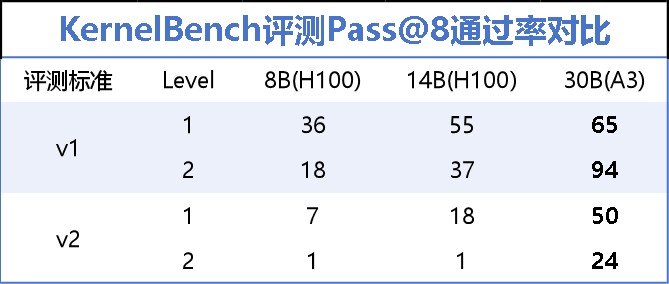
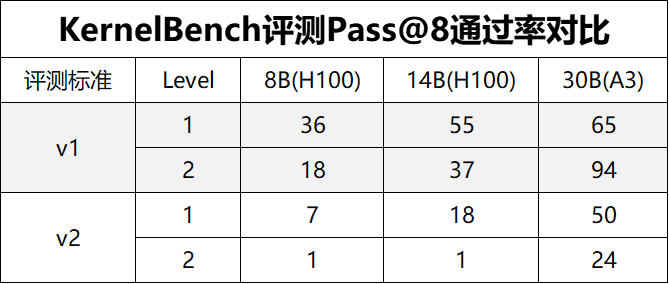
change the png in readme

diff --git a/triton_kernel_generation/sft/README.md b/triton_kernel_generation/sft/README.md
@@ -85,5 +85,5 @@ TRAIN_DATA_PATH=""        # SFT 数据集路径
 以下实验结果基于两种标准进行评测：v1-standard 采用开源校验标准，精度阈值较为宽松（相对/绝对误差 1.00E-02），且允许算子实现中部分调用 torch 接口。v2-standard 则对齐工业级标准，要求纯 Triton 实现，禁止任何计算类 torch 接口调用（否则判定为作弊），并在精度校验上引入按 Dtype 区分的双指标（MERE & MARE）和 NPU 微小值截断公式，标准更为严格。
 
 <p align="center">
-  <img src="assets/kernelbench.png" width="800" alt="数据合成Pipeline流程图">
+  <img src="assets/kernelbench.png" width="400" alt="kernelbench评测">
 </p>